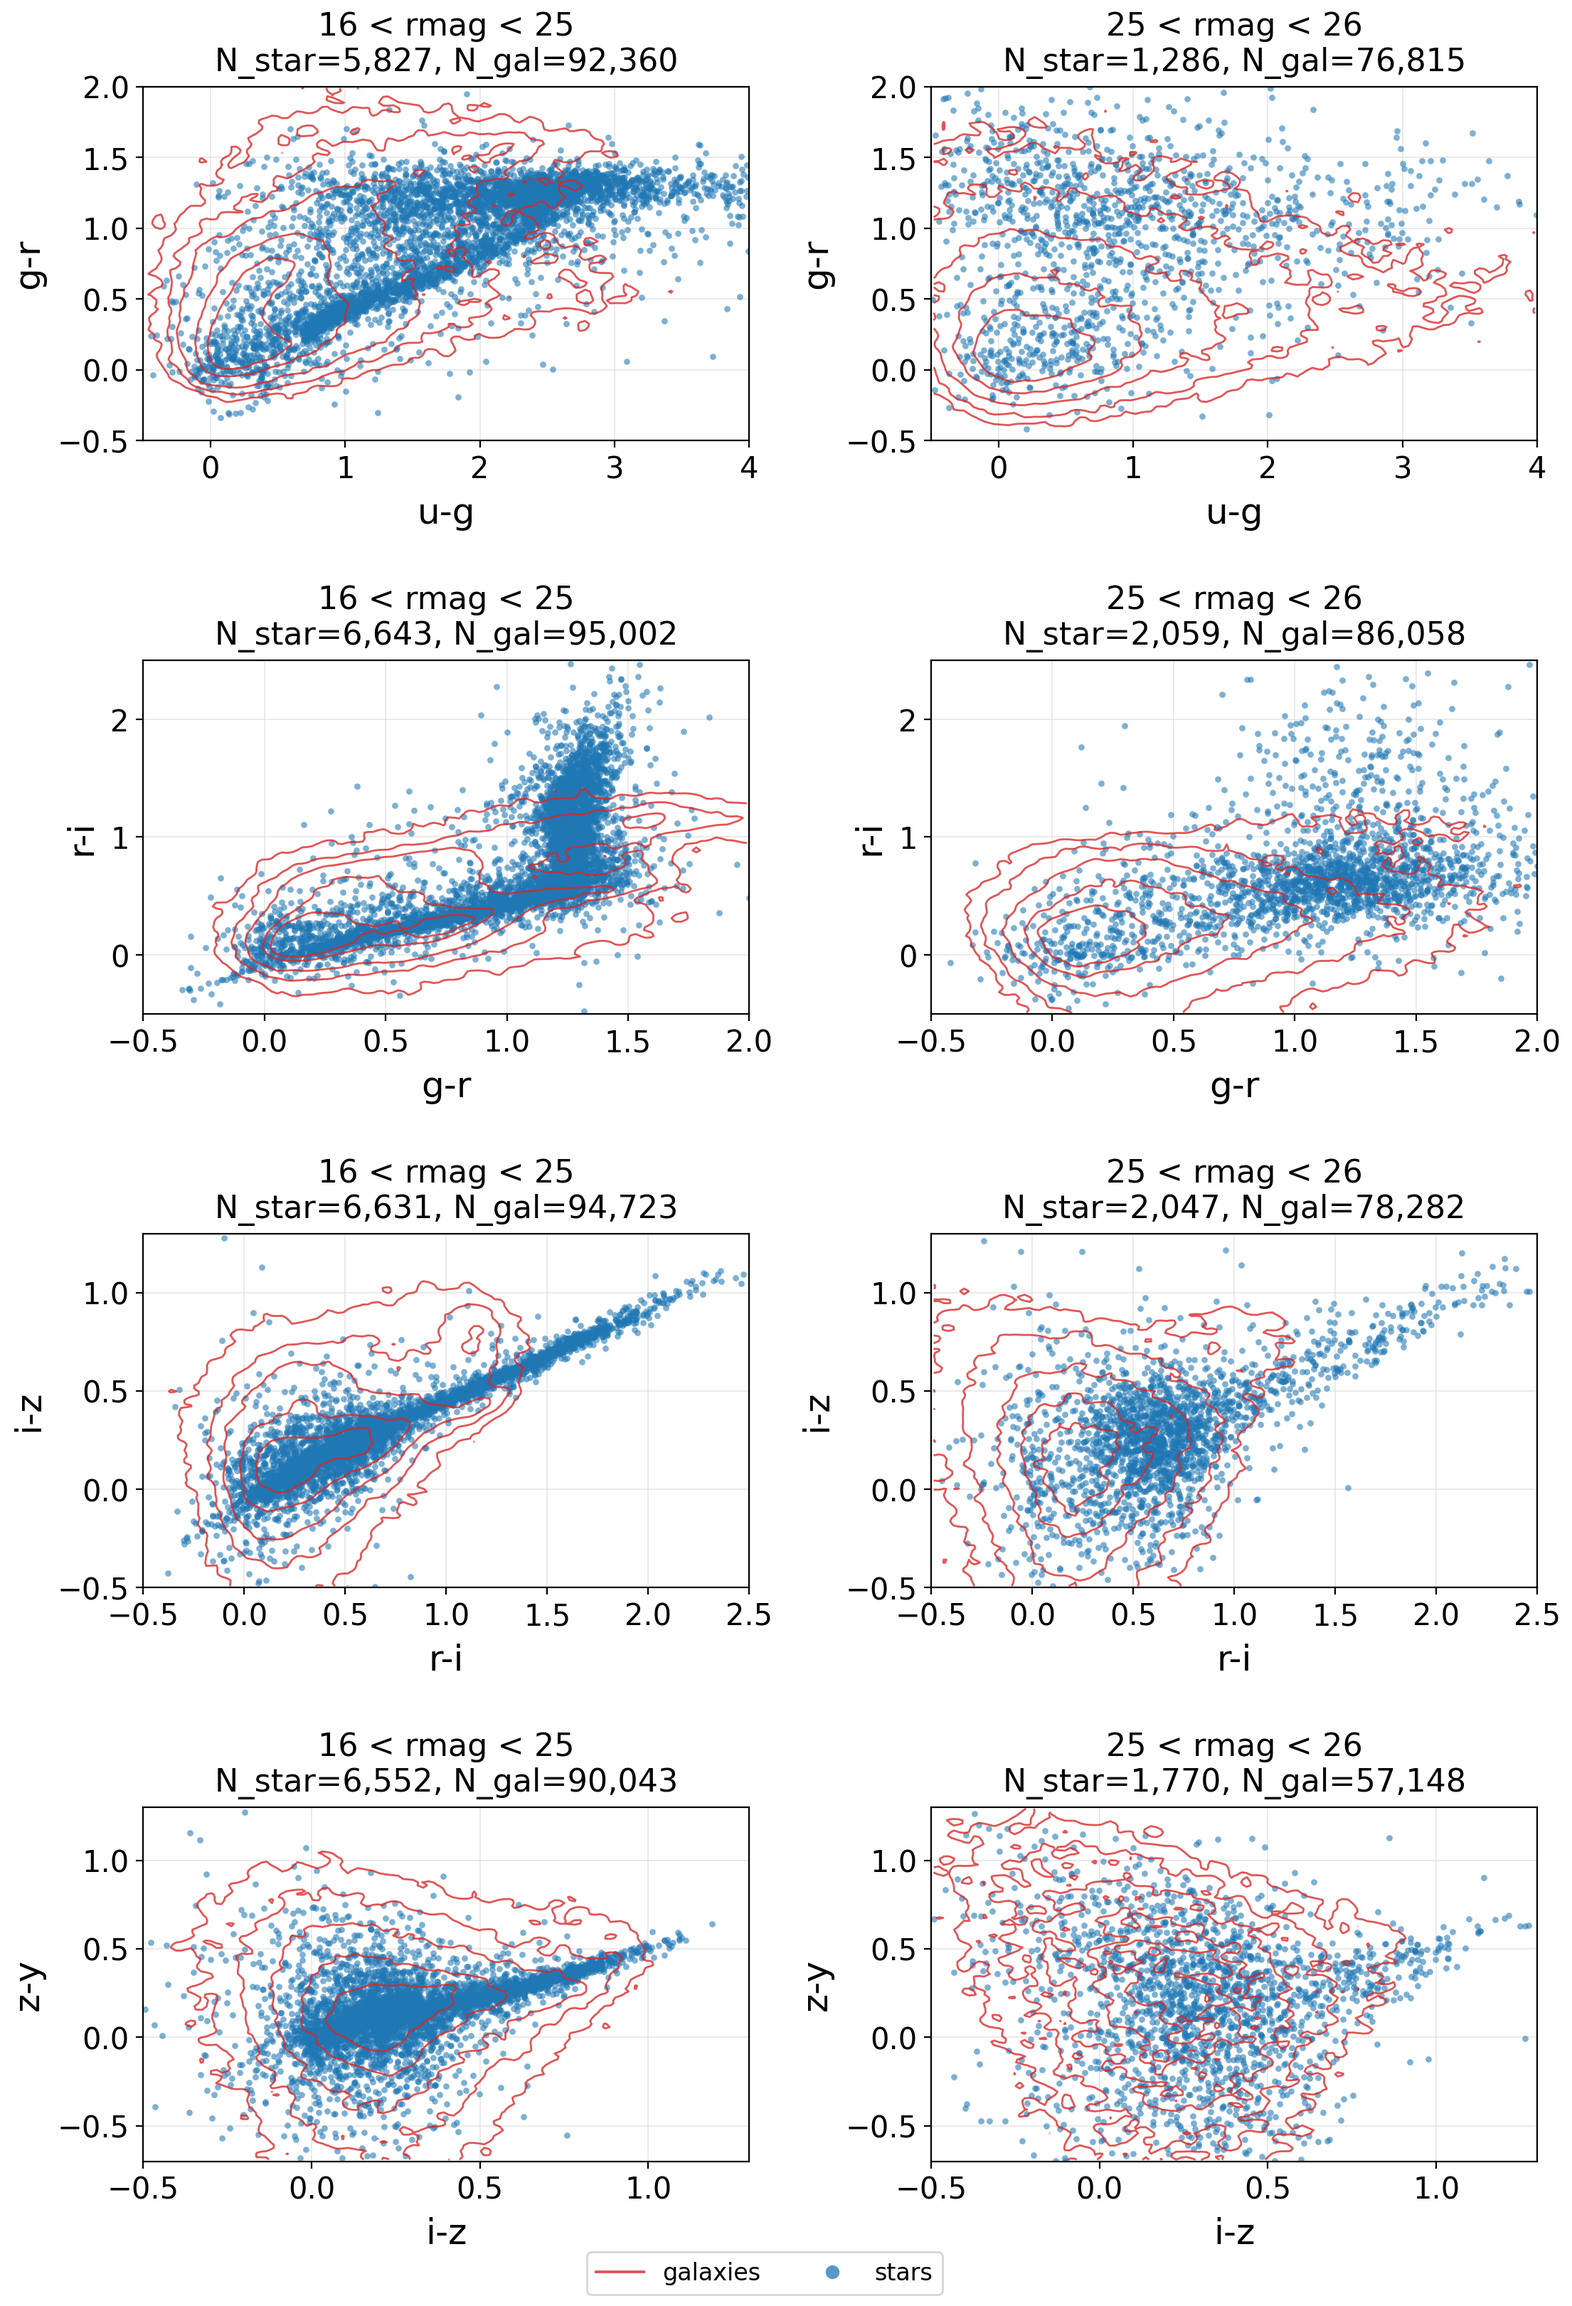
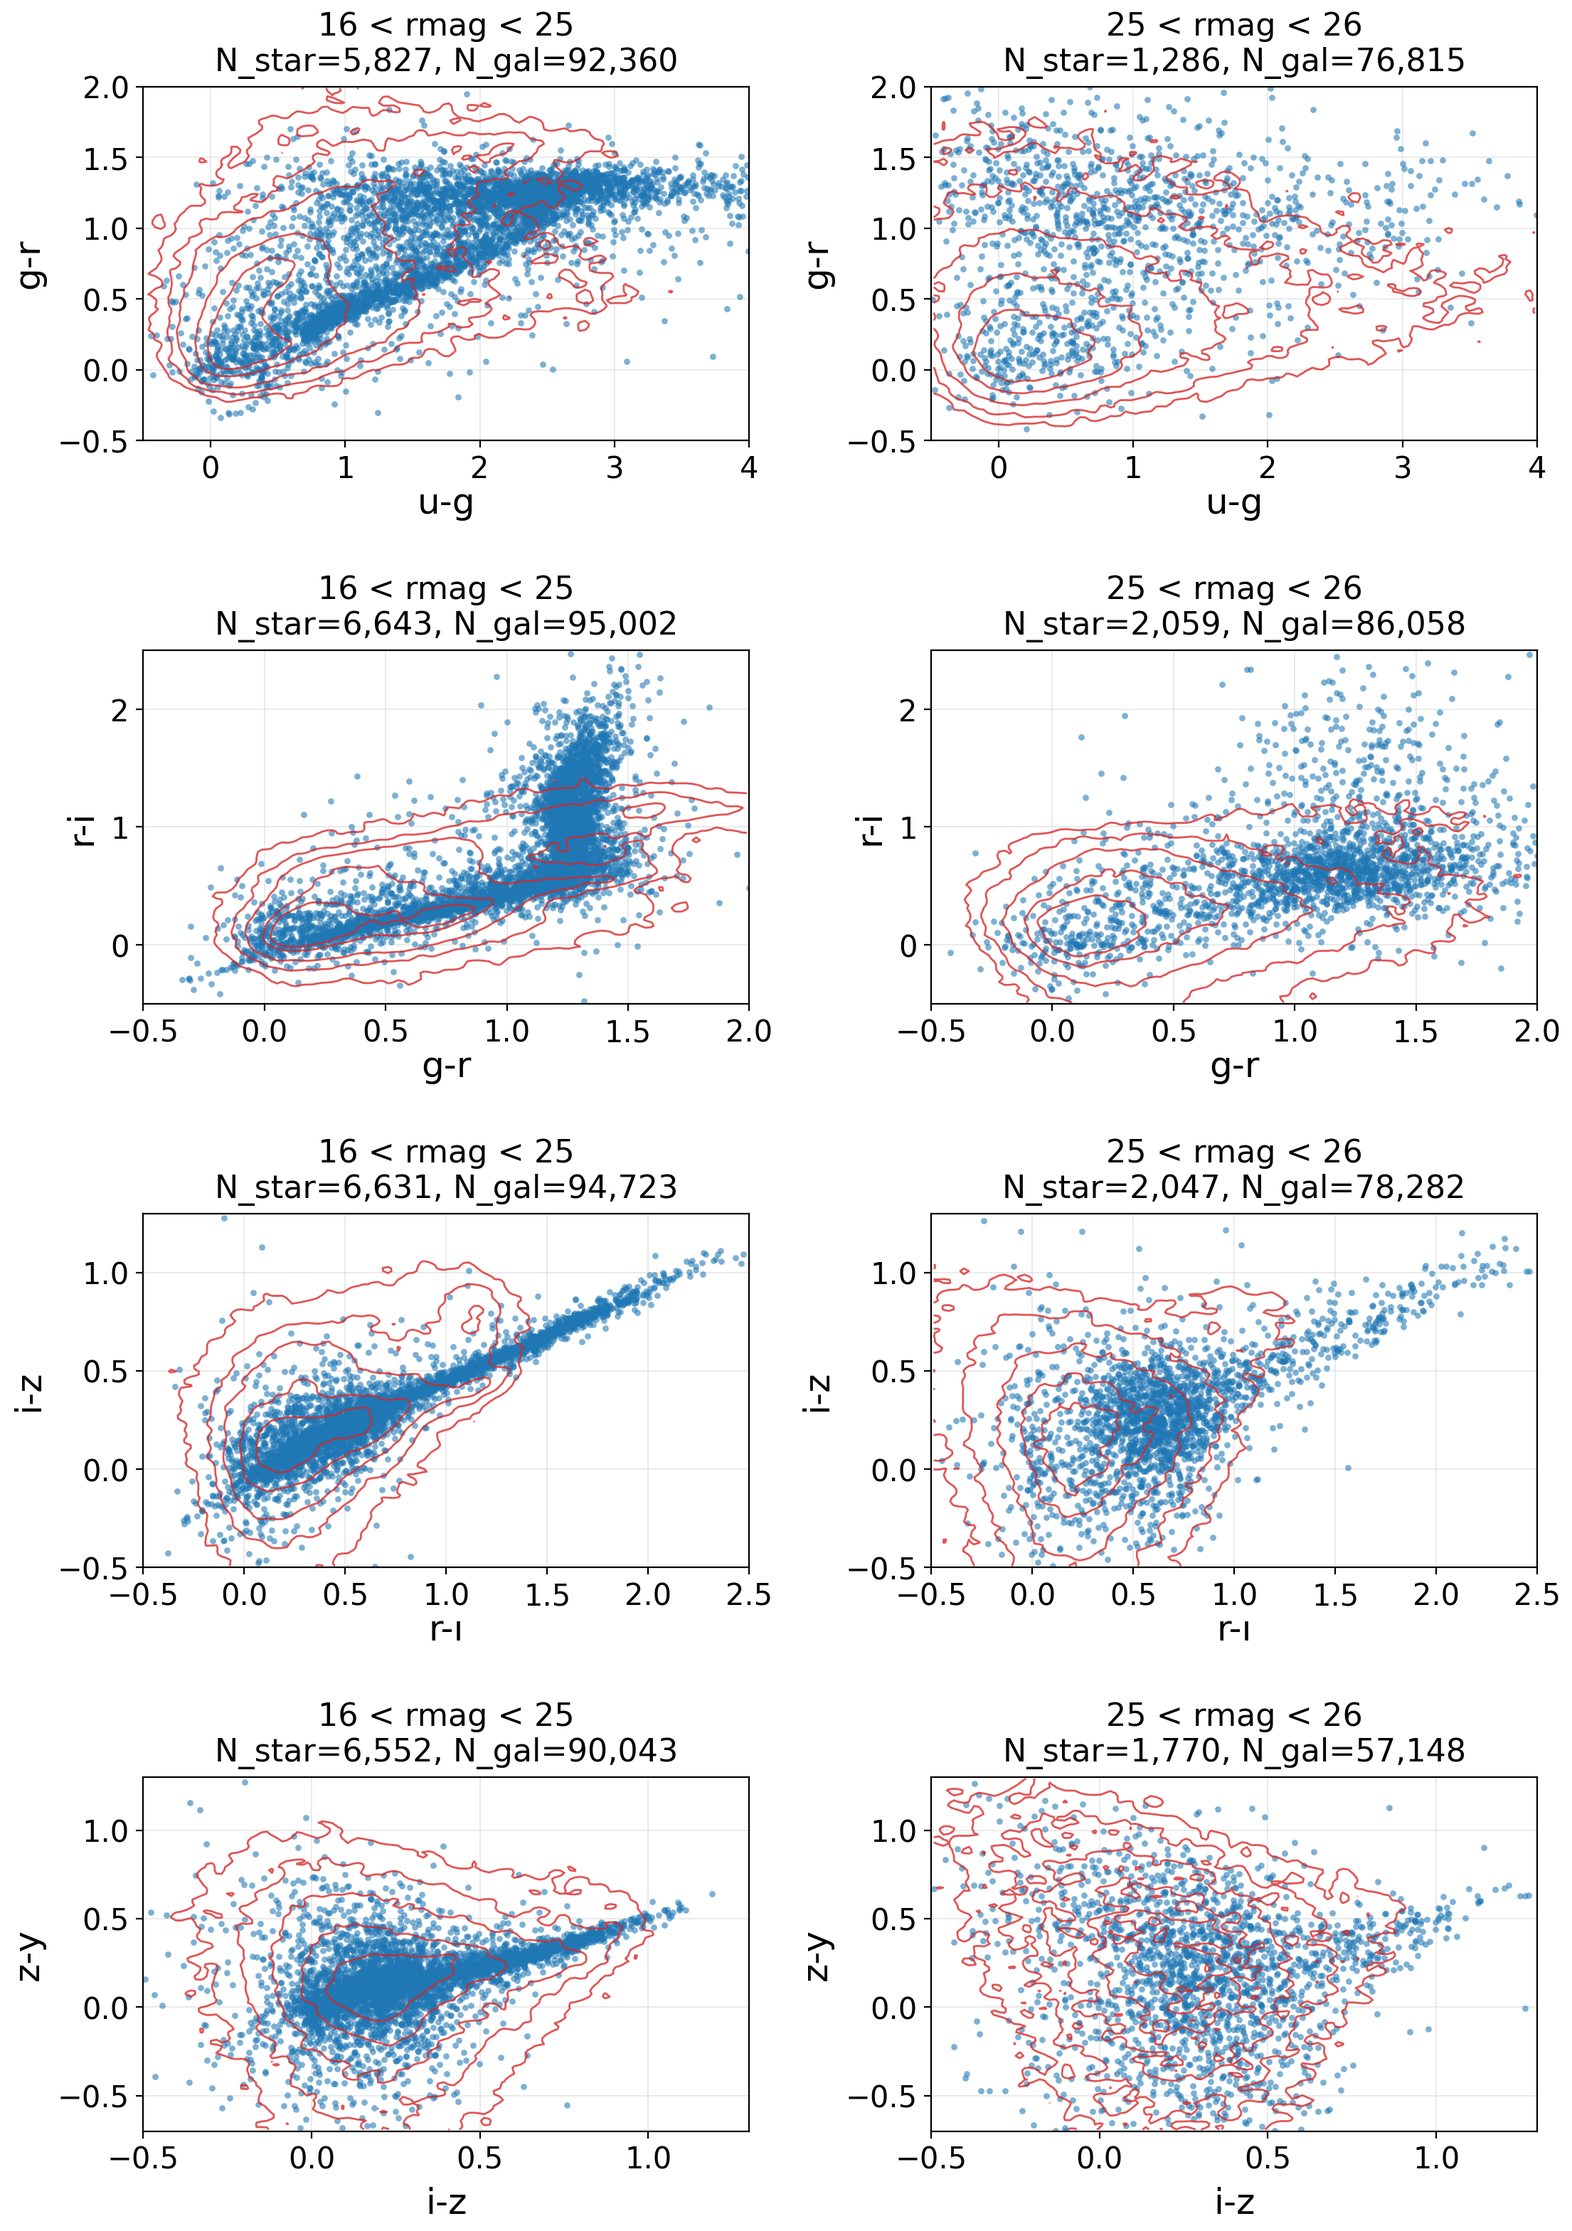
update 3 plots, add one sentence, change extendedness_1 to extendedness_0 on page 4

diff --git a/datasets.tex b/datasets.tex
@@ -115,7 +115,7 @@ quasars than of main sequence stars (for a detailed discussion of the blue star 
  \centering
  \includegraphics[width=\textwidth]{fig03_truth_morphology_color.png}
  \caption{The distribution of stars (blue dots) and galaxies (red countours), classified using HST labels, in various infomative
- diagrams. The CModel-magnitude based colors are corrected for the ISM dust extinction, while the $r$-band CModel magnitude is not.
+ diagrams. Green points show Rubin DP2 sources classified as unresolved ($\mathrm{extendedness}_r=0$) with $r$-band CModel magnitude $>24.5$. The CModel-magnitude based colors are corrected for the ISM dust extinction, while the $r$-band CModel magnitude is not.
  The top left panel shows the \(\Delta m = m_{\mathrm{PSF}} - m_{\mathrm{CModel}}\) vs. \(m_{\mathrm{CModel}}\) diagram, where
  stars form a narrow sequence centered on \(\Delta m \approx 0\) and for galaxies \(\Delta m > 0 \). 
  The top right panel shows the $r$ vs. $g-i$ color magnitude diagram and two bottom panels show
@@ -147,7 +147,7 @@ Figure~\ref{fig:r_extendedness_confusion_cmd}, which compares subsamples classif
 using HST ground-truth labels and the default Rubin \texttt{extendedness} binary class in the $r$ band.
 As evident, a significant fraction of faint sources within about two magnitudes from the faint limit are 
 misclassified when using default \texttt{extendedness} parameter. Misclassifications have
-a more severe impact on stellar sample: only 26\% of ``stars'' selected by \texttt{extendedness}=1
+a more severe impact on stellar sample: only 26\% of ``stars'' selected by \texttt{extendedness}=0
 condition are unresolved in HST data. This high level of stellar sample contamination by faint
 galaxies increases towards the faint end (see the bottom left panel in
 Figure~\ref{fig:r_extendedness_confusion_cmd}).
